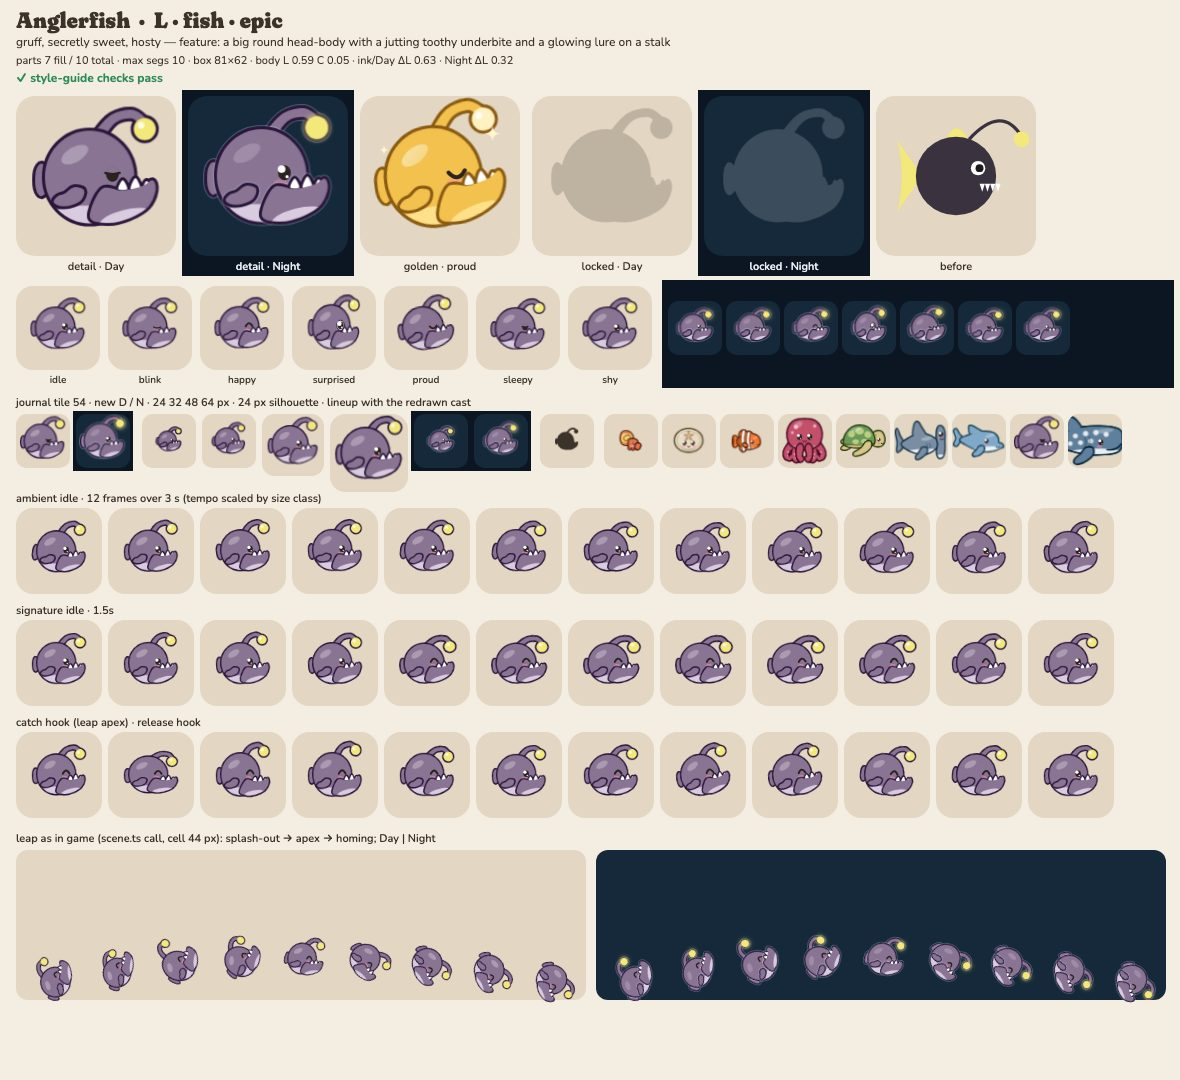
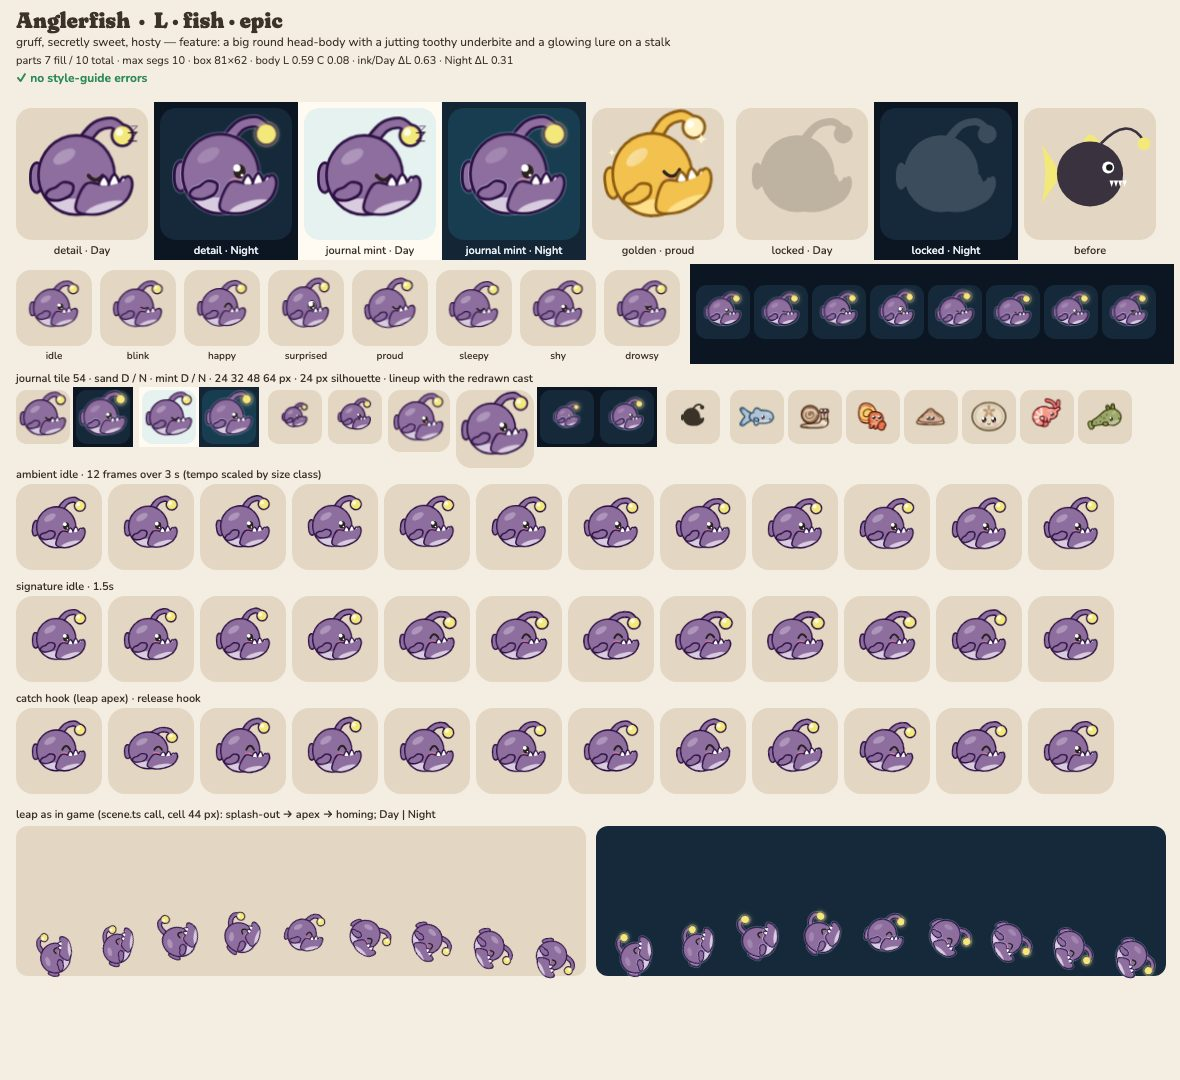
art: angler — idle eye opened 15% (ADR 0011)
CRITIQUE-1 A note: eye 10 -> 11.5 u; lint: lure highlight 6 u, body chroma
0.082. Lint-clean; closest sanddollar 0.73 (cross-class).

diff --git a/src/render/art/species/angler.ts b/src/render/art/species/angler.ts
@@ -2,7 +2,7 @@
  * Anglerfish — FISH class, profile, night habitat (awake and glowing at night, sleepy by day).
  * Silhouette: one big round head-body, a jutting underbite with three rounded teeth, and the lure
  * on a curved stalk over the forehead (R10: lure + underbite, both exaggerated).
- * Dark identity lifted (R16): `#3B3240` → purple-grey L 0.59, pale lilac belly, lure `#F2E97A`
+ * Dark identity lifted (R16): `#3B3240` → purple-grey L 0.59 (chroma 0.08), pale lilac belly, lure `#F2E97A`
  * as a `light` part (baked glow at night). Cute-spooky: big round eye, teeth like baby teeth.
  * Personality: gruff, secretly sweet, hosty. Signature: the lure brightens and swings forward
  * to offer its light to the viewer, and it beams.
@@ -60,7 +60,7 @@ export default defineArt({
   size: 'L',
   feature: 'a big round head-body with a jutting toothy underbite and a glowing lure on a stalk',
   personality: ['gruff', 'secretly sweet', 'hosty'],
-  palette: { body: '#8A7494', accent: '#F2E97A', belly: '#D9CCE0' },
+  palette: { body: '#8E6E9F', accent: '#F2E97A', belly: '#D9CCE0' },
   groups: [
     { id: 'tail', pivot: [-32, 0], parts: [{ d: tail, role: 'body' }] },
     {
@@ -69,7 +69,7 @@ export default defineArt({
       parts: [
         { d: stalk, role: 'body', extra: true },
         { d: bulb, role: 'light', extra: true },
-        { d: circle(30.5, -36.5, 2.4), role: 'white', kind: 'pattern', alpha: 0.8 },
+        { d: circle(30.5, -36.5, 3.1), role: 'white', kind: 'pattern', alpha: 0.8 },
       ],
     },
     {
@@ -93,8 +93,8 @@ export default defineArt({
   shine: ellipse(-14, -17, 10, 5, -30),
   face: {
     eyes: [[11, -4]],
-    eye: 10,
-    zone: [-4, -30, 43, 46],
+    eye: 11.5,
+    zone: [-4, -31, 43, 48],
     mouth: { at: [24, 5], w: 6, shape: 'none' },
     sweet: true,
   },

diff --git a/docs/art/notes/fleet-5.md b/docs/art/notes/fleet-5.md
@@ -150,3 +150,9 @@ Species: hammerhead, dolphin, whaleshark, angler, otter, goldturtle. Sheets in `
   body `#5A84B5` (chroma 0.089, R16S; L 0.60). The kit's head-anchored XXL crop now keeps the long
   mouth in frame. Lint-clean; closest clownfish 0.65.
 - **Self-grade:** A. Unchanged in spirit; slightly bluer than the slate of round 1.
+
+## angler — A, open the eye
+- **Fixes:** idle eye opened 15 % (10 → 11.5 units, 24 % of a slightly taller zone) so it's no
+  longer a squint at 24–32 px; lure highlight 6.2 units (R18W); body `#8E6E9F` (chroma 0.082,
+  R16S). Lint-clean; closest sanddollar 0.73 (cross-class, limit 0.80), fish all < 0.67.
+- **Self-grade:** A.
